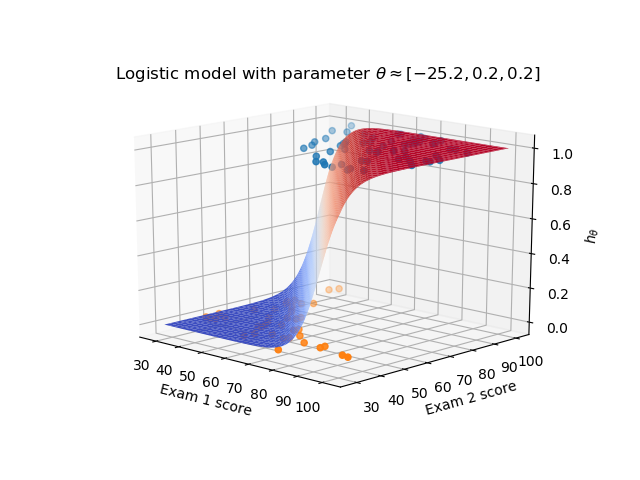
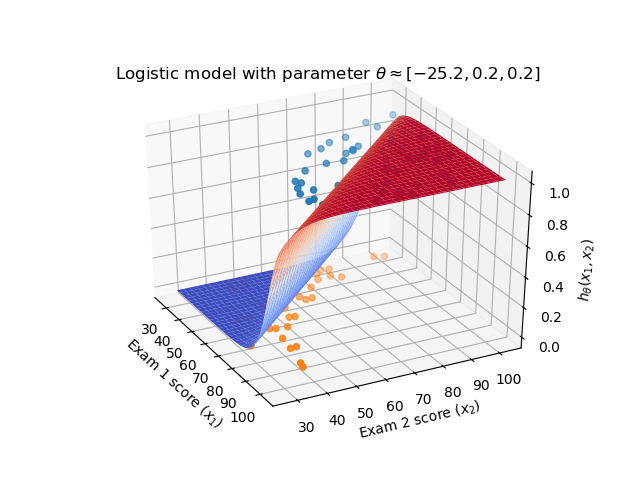
ex2: Added feature mapping into polynomials of various degrees

Changed region(s): [[0.1875, 0.1875, 0.9375, 0.9062], [0.875, 0.3125, 0.9062, 0.3438]]

diff --git a/ex2/ex2.py b/ex2/ex2.py
@@ -40,13 +40,11 @@ def plotDecisionBoundary(X, y, theta, color="blue", label="Decision boundary"):
     X2_max = np.max(X[:,1])
     X2_margin = (X2_max - X2_min) * margin_quotient
     if theta.shape[0] == 3:
-        #plot_x = np.array([np.min(X[:,0])-1, np.max(X[:,0])+1])
         plot_x = np.array([X1_min-X1_margin, X1_max+X1_margin])
         plot_y = (-1) / theta[2,0] * (theta[1,0] * plot_x + theta[0,0])
         return plt.plot(plot_x, plot_y, color=color, label=label)
     elif theta.shape[0] > 3:
         degree = get_mapFeature_degree(theta.size)
-        #u = np.linspace(-1, 1.5, 51)
         u = np.linspace(X1_min-X1_margin, X1_max+X1_margin, 51)
         v = np.linspace(X2_min-X2_margin, X2_max+X2_margin, 51)
         z = np.empty((u.size, v.size))
@@ -74,33 +72,34 @@ def sigmoid(X):
     return 1 / (1 + np.exp((-1) * X))
 
 
-def costFunction(theta, X, y, lambda_=None, gradFlatten=False):
+def costFunction(theta, X, y, lambda_=0, gradFlatten=False):
     m = y.shape[0]
     theta = theta.reshape((-1,1))
     h = sigmoid(dot(X, theta))
     J = (-1) / m * (dot(y.T, np.log(h)) + dot((1-y.T), np.log(1-h)))
     grad = 1 / m * dot(X.T, (h-y))
-    if lambda_ is not None:
+    if lambda_ != 0:
         J = J + lambda_ / (2*m) * dot(theta[1:].T, theta[1:])
         grad[1:] += lambda_ / m * theta[1:]
     if gradFlatten:
-        # some scalar function minimization solvers require that you return
-        # grad flattened
+        # some function minimization solvers require that you return grad
+        # flattened
         grad = grad.flatten()
     return J[0,0], grad
 
 
 def mapFeature(X1, X2, degree):
     """
-    Feature mapping function to polynomial features. Returns a new feature
-    array with more features, comprising of 1, X1, X2, X1**2, X1*X2, X2**2,
-    X1**3, X1**2*X2, X1*X2**2, etc.
+    Map the features X1 and X2 into all polynomial terms of X1 and X2 up to the
+    power of 'degree'. Returns a new feature array with more features,
+    comprising of 1, X1, X2, X1**2, X1*X2, X2**2, X1**3, X1**2*X2, X1*X2**2,
+    etc.
  
     Inputs X1, X2 must be the same size.
     """
     assert np.shape(X1) == np.shape(X2)
-    X1 = np.array(X1)
-    X2 = np.array(X2)
+    X1 = np.array(X1) # Make sure X1 is numpy array from now on
+    X2 = np.array(X2) # ditto
     if np.ndim(X1) < 2:
         X1 = X1.reshape((-1,1))
         X2 = X2.reshape((-1,1))
@@ -254,15 +253,75 @@ if __name__ == "__main__":
     #print("Plotting logistic model...")
     plt.figure()
     plotModel(X1, y1, theta_min1, label1="Exam 1 score", label2="Exam 2 score")
-    plt.xlabel("Exam 1 score")
-    plt.ylabel("Exam 2 score")
-    plt.gca().set_zlabel("$h_\\theta$")
+    plt.xlabel("Exam 1 score ($x_1$)")
+    plt.ylabel("Exam 2 score ($x_2$)")
+    plt.gca().set_zlabel("$h_\\theta(x_1,x_2)$")
     plt.title("Logistic model with parameter $\\theta \\approx "
               "[{theta[0]:.1f}, {theta[1]:.1f}, {theta[2]:.1f}]$"
               .format(theta=list(theta_min1.flatten())))
 
-    #plt.show()
+    # Let's test and compare logistic regression with polynomial feature mapping
+    # on previous dataset
+    print()
+    print("Let's compute gradient descent for the same dataset but with its "
+          "features mapped to polynomial terms of various degrees and let's "
+          "compare resulting models (regularization parameter alpha is set to "
+          "1):")
+    plt.figure()
+    plotData(X1, y1, label1="Admitted", label2="Not admitted")
+    legend_handles = [] # Will collect here legend handles of individual plots
+    thetas = dict()
+    y1b = y1a
+    for degree, color in zip([2, 3, 4],
+                             ["red", "black", "orange"]):
+        X1b = mapFeature(X1[:,0], X1[:,1], degree)
+        theta_init = zeros((X1b.shape[1],1))
+        result = minimize(
+                x0=theta_init,
+                fun=costFunction,
+                args=(X1b, y1b, 1),
+                method="TNC",
+                jac=True)
+        theta = result.x.reshape(-1,1)
+        cost = result.fun
+        accuracy = np.mean(predict(theta, X1b[:,1:]) == y1b)
+        print("  with features mapped to {degree}-degree polynomial:\n"
+              "     number of features: {features}\n"
+              "     theta: {theta}\n"
+              "     cost: {cost:.3f}\n"
+              "     prediction accuracy: {accuracy:.1%}"
+              .format(degree=degree, features=(degree+1)*(degree+2)//2,
+                  theta=print_format_list(theta.flatten(), ":.3g"), cost=cost,
+                  accuracy=accuracy))
+        plot_label = "Degree = {} (accur. {:.1%})".format(degree, accuracy)
+        plotDecisionBoundary(X1, y1, theta, color=color,
+                label=plot_label)
+        legend_handles.append(matplotlib.lines.Line2D(
+            [],
+            [],
+            color=color,
+            alpha=0.5,
+            label=plot_label))
+        thetas[degree] = {"theta_min": theta,
+                          "cost_min": cost,
+                          "accuracy": accuracy}
+    plt.legend(handles=legend_handles, loc="upper right", framealpha=0.9)
+    plt.xlabel("Exam 1 score")
+    plt.ylabel("Exam 2 score")
+    plt.title("Decision boudaries for various degrees\n"
+              "of polynomial feature mapping")
 
+    plt.figure()
+    plotModel(X1, y1, thetas[3]["theta_min"])
+    plt.xlabel("Exam 1 score ($x_1$)")
+    plt.ylabel("Exam 2 score ($x_2$)")
+    plt.gca().set_zlabel("$h_\\theta(x_1,x_2)$")
+    plt.title("Logistic model fit from dataset with features\n"
+              "mapped to polynomial terms of degree {}\n"
+              "($x = (1,x_1,x_2,x_1^2,x_1 x_2,x_2^2,x_1^3,x_1^2 x_2,x_1 x_2^2,"
+              "x_2^3)$)".format(3))
+
+    # Regularized logistic regression
     print()
     print("Loading second dataset...")
     X2, y2 = load_data("ex2data2.txt")
@@ -303,7 +362,7 @@ if __name__ == "__main__":
               "{})".format(
                   print_format_list(grad[:5].flatten(), ":.4f"), exp_grad))
 
-    print("Testing prediction accuracy on train set for various values of "
+    print("Testing prediction accuracy on training set for various values of "
           "regularization parameter lambda:")
     theta_init = zeros((n2,1))
     lambdas = [0, 1, 10, 100]
@@ -314,14 +373,14 @@ if __name__ == "__main__":
     #legend_handles, _ = plt.gca().get_legend_handles_labels()
     legend_handles = []
     for lambda_, color in zip(lambdas, colors):
-        cost, grad = costFunction(theta_init, X2a, y2a, lambda_)
         result = minimize(
                 x0=theta_init,
                 fun=costFunction,
                 args=(X2a,y2a,lambda_),
                 method="TNC",
                 jac=True)
-        theta = result.x.reshape(n2,-1)
+        #theta = result.x.reshape(n2,-1)
+        theta = result.x.reshape(-1,1)
         cost = result.fun
         precision = np.mean(predict(theta, X2a[:,1:]) == y2a)
         thetas[lambda_] = {"theta_min": theta,
@@ -330,12 +389,17 @@ if __name__ == "__main__":
         print("  lambda = {}: accuracy = {:.1%}{}".format(
             lambda_,
             precision,
-            "" if lambda_ != 1 else " (expected approx. 83.1%)"
+            " (expected approx. 83.1%)" if lambda_ == 1 else ""
             ))
-        plotDecisionBoundary(X2, y2, theta, color=color)
-        legend_handles.append(matplotlib.lines.Line2D([], [], color=color,
+        plot_label = "$\\lambda = {}$ (accur. {:.0%})".format(
+                lambda_, precision)
+        plotDecisionBoundary(X2, y2, theta, color=color, label=plot_label)
+        legend_handles.append(matplotlib.lines.Line2D(
+            [],
+            [],
+            color=color,
             alpha=0.5,
-            label="$\\lambda = {}$ (accur. {:.0%})".format(lambda_, precision)))
+            label=plot_label))
     theta_min2 = thetas[1]["theta_min"]
     cost_min2 = thetas[1]["cost_min"]
     plt.xlabel("Microchip test 1")
